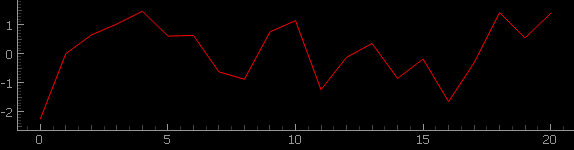
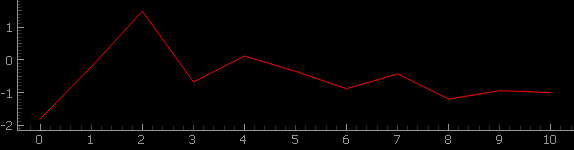
reporting multiple graphs

diff --git a/Controllers/report.py b/Controllers/report.py
@@ -36,6 +36,10 @@ class GraphWindow(QWidget):
         self.report_button = QPushButton("Generate Report")
         self.report_button.clicked.connect(self.open_report_window)
 
+        # Use another graph to show another signal
+        self.new_graph_button = QPushButton("New Graph")
+        self.new_graph_button.clicked.connect(self.show_new_graph)
+
         # Layout for cropping inputs
         input_layout = QHBoxLayout()
         input_layout.addWidget(self.start_label)
@@ -43,54 +47,77 @@ class GraphWindow(QWidget):
         input_layout.addWidget(self.end_label)
         input_layout.addWidget(self.end_input)
         input_layout.addWidget(self.crop_button)
+        input_layout.addWidget(self.new_graph_button)
 
         # Add input layout and report button to main layout
         self.layout.addLayout(input_layout)
         self.layout.addWidget(self.report_button)
 
         self.setLayout(self.layout)
-        self.cropped_data = []
+
+        # Store all graphs and cropped data
+        self.graphs = [self.graph_widget]
+        self.all_data = [self.data]
+        self.all_cropped_data = [[]]  # To store cropped data for each graph
+
+    def show_new_graph(self):
+        """Add a new graph with random data and store it."""
+        new_data = np.random.randn(100)
+        new_graph_widget = pg.PlotWidget()
+
+        # Plot the new data on the new graph
+        new_graph_widget.plot(new_data, pen='b')
+
+        # Store new graph widget and data
+        self.graphs.append(new_graph_widget)
+        self.all_data.append(new_data)
+        self.all_cropped_data.append([])
+
+        # Add the new graph to the layout
+        self.layout.addWidget(new_graph_widget)
 
     def crop_graph_and_save(self):
-        """Crop the graph based on start and end inputs."""
+        """Crop the selected graph based on start and end inputs."""
         try:
             start = int(self.start_input.text())
             end = int(self.end_input.text())
+            current_graph_index = len(self.graphs) - 1  # Get the current graph index
 
-            if start < 0 or end >= len(self.data) or start >= end:
+            if start < 0 or end >= len(self.all_data[current_graph_index]) or start >= end:
                 raise ValueError("Invalid crop range")
 
-            # Crop the data
-            self.cropped_data.append(self.data[start:end].tolist())
+            # Crop the data for the current graph
+            cropped_data = self.all_data[current_graph_index][start:end]
+            self.all_cropped_data[current_graph_index].append(cropped_data.tolist())
 
-            # Update plot to show only the cropped data
-            self.graph_widget.clear()
-            self.graph_widget.plot(self.cropped_data[-1][:], pen='r')
+            # Update the current graph to show only the cropped data
+            self.graphs[current_graph_index].clear()
+            self.graphs[current_graph_index].plot(cropped_data, pen='r')
 
-            print(f"Cropped data from {start} to {end}")
+            print(f"Cropped data from {start} to {end} for graph {current_graph_index + 1}")
         except Exception as e:
             print(f"Error: {e}")
 
     def open_report_window(self):
         """Open a window to write and generate a report."""
-        if self.cropped_data is None:
+        if all(not data for data in self.all_cropped_data):
             print("No data to generate report.")
             return
 
-        self.report_window = ReportWindow(self.cropped_data)
+        self.report_window = ReportWindow(self.all_cropped_data)
         self.report_window.show()
 
 
 class ReportWindow(QDialog):
-    def __init__(self, cropped_data):
+    def __init__(self, all_cropped_data):
         super().__init__()
         self.setWindowTitle("Generate Report")
 
         # Limit window size to a quarter of the screen
         self.setGeometry(200, 200, 600, 500)
-        self.setMinimumSize(400, 300)  # Allow resizing, but limit the minimum size
+        self.setMinimumSize(400, 300)
 
-        self.cropped_data = cropped_data  # Data passed from the main window
+        self.all_cropped_data = all_cropped_data  # Data passed from the main window
 
         # Create a layout and text area for writing the report
         layout = QVBoxLayout()
@@ -104,12 +131,13 @@ class ReportWindow(QDialog):
 
         # Display the cropped data as graphs
         self.graph_widgets = []
-        for idx, data in enumerate(self.cropped_data):
-            graph_widget = pg.PlotWidget(self)
-            graph_widget.plot(data, pen='r')
-            graph_widget.setFixedHeight(150)  # Set smaller height for each graph
-            self.graph_widgets.append(graph_widget)
-            layout.addWidget(graph_widget)
+        for graph_data in self.all_cropped_data:
+            for cropped_data in graph_data:
+                graph_widget = pg.PlotWidget(self)
+                graph_widget.plot(cropped_data, pen='r')
+                graph_widget.setFixedHeight(150)  # Set smaller height for each graph
+                self.graph_widgets.append(graph_widget)
+                layout.addWidget(graph_widget)
 
         # Button to save the report
         save_button = QPushButton("Save Report")
